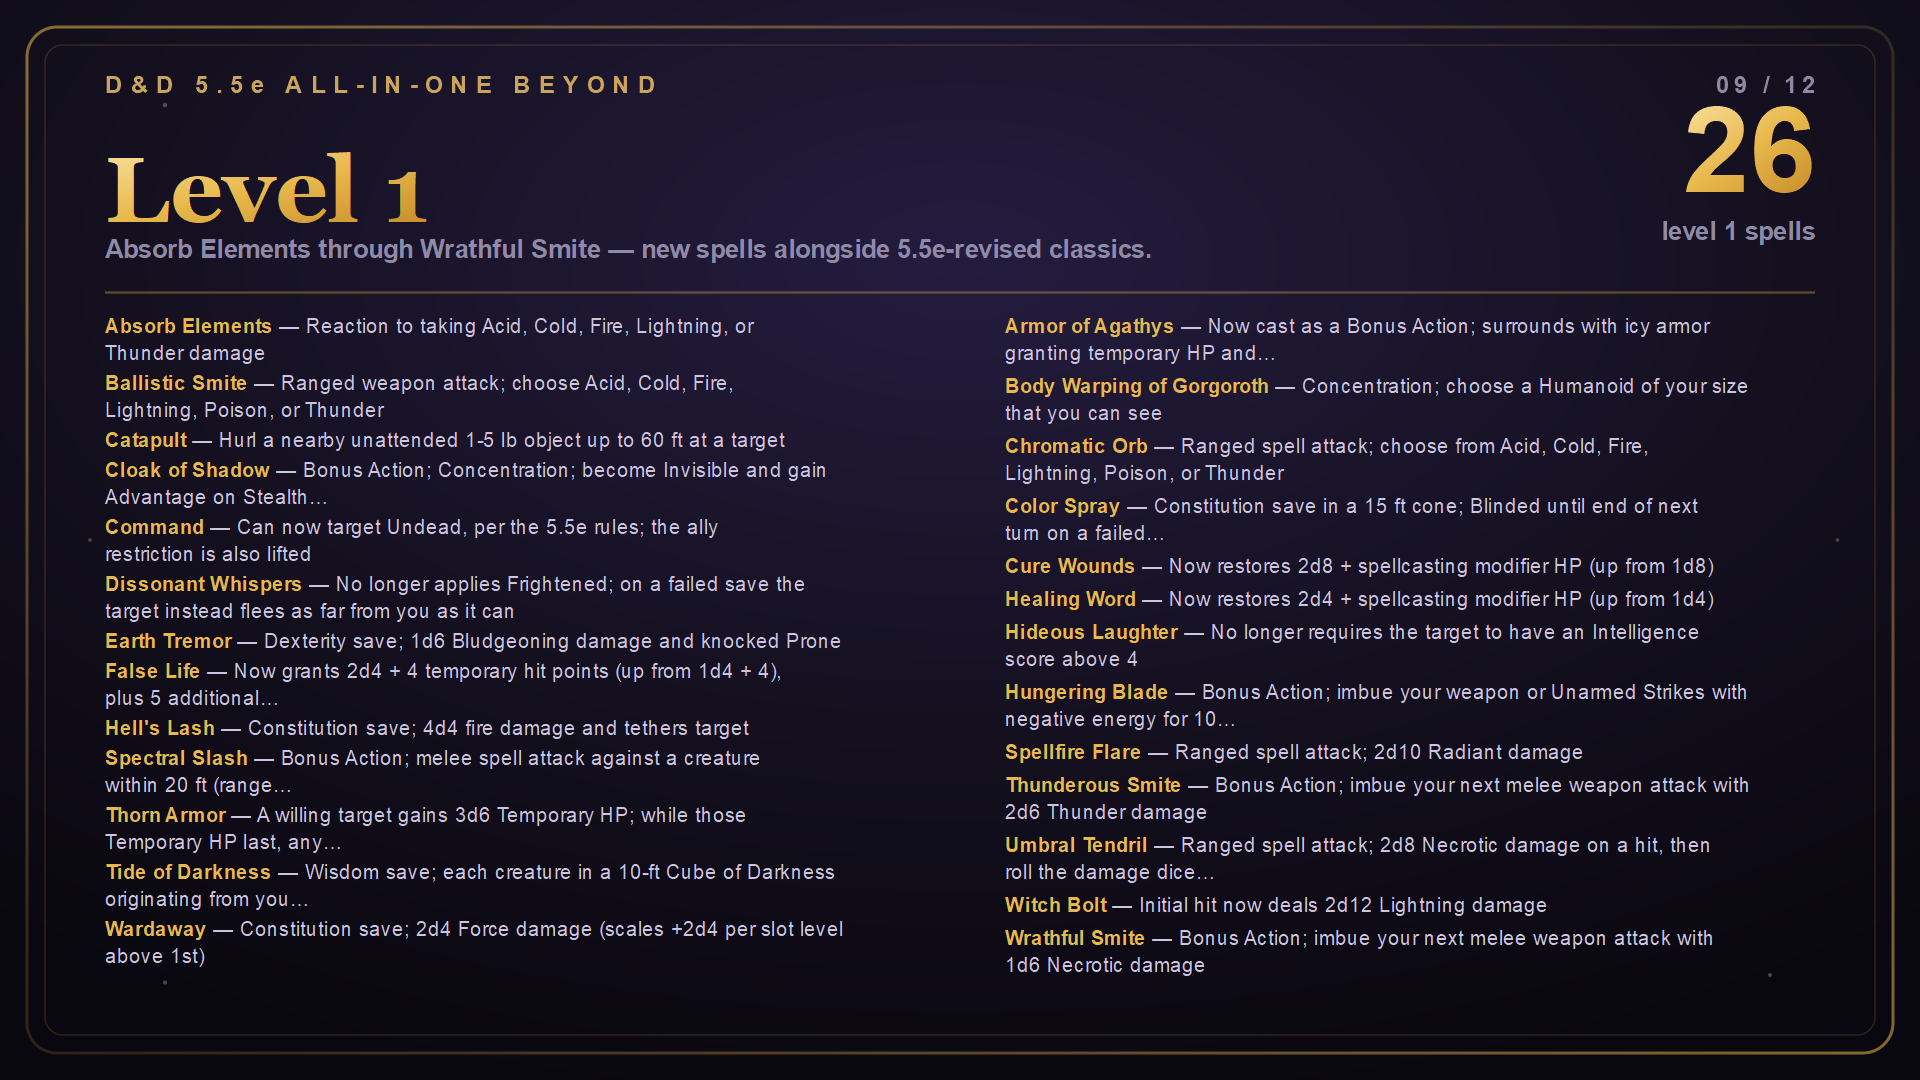
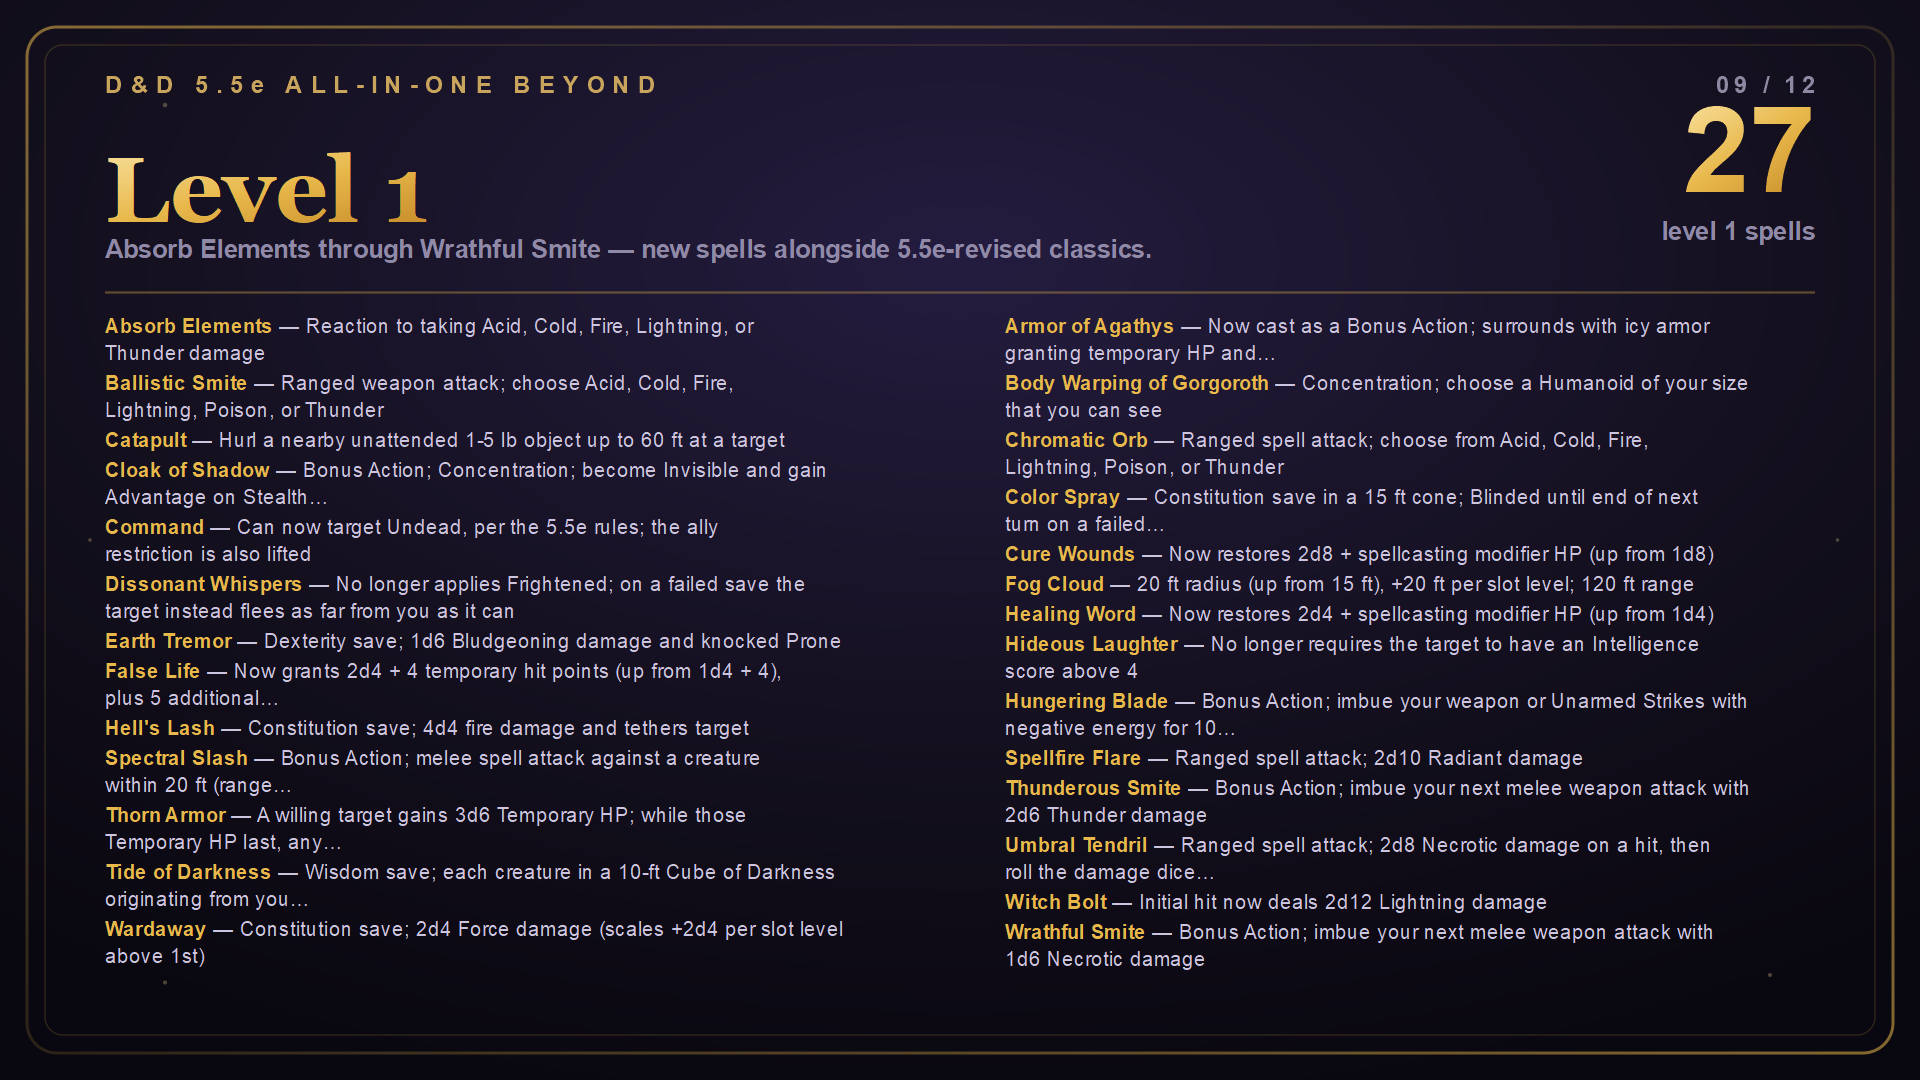
docs(spells): list Fog Cloud among the revised spells
Add Fog Cloud to the level 1 lists in the three READMEs and the right
column of the level 1 slide, tightening that column's spacing to fit, and
count 120 new and revised spells on the thumbnail.

Changed region(s): [[0.5, 0.3361, 0.9062, 0.7639], [0.5, 0.825, 0.9062, 0.9167], [0.9062, 0.0917, 0.9688, 0.1833]]

diff --git a/README_Modio.html b/README_Modio.html
@@ -89,7 +89,7 @@
 
 <h3>Leveled Spells</h3>
 <ul>
-  <li><strong>Level 1:</strong> Absorb Elements, Armor of Agathys, Ballistic Smite, Body Warping of Gorgoroth, Catapult, Chromatic Orb, Cloak of Shadow, Color Spray, Command, Cure Wounds, Dissonant Whispers, Earth Tremor, False Life, Healing Word, Hell's Lash, Hideous Laughter, Hungering Blade, Spectral Slash, Spellfire Flare, Thorn Armor, Thunderous Smite, Tide of Darkness, Umbral Tendril, Wardaway, Witch Bolt, Wrathful Smite.</li>
+  <li><strong>Level 1:</strong> Absorb Elements, Armor of Agathys, Ballistic Smite, Body Warping of Gorgoroth, Catapult, Chromatic Orb, Cloak of Shadow, Color Spray, Command, Cure Wounds, Dissonant Whispers, Earth Tremor, False Life, Fog Cloud, Healing Word, Hell's Lash, Hideous Laughter, Hungering Blade, Spectral Slash, Spellfire Flare, Thorn Armor, Thunderous Smite, Tide of Darkness, Umbral Tendril, Wardaway, Witch Bolt, Wrathful Smite.</li>
   <li><strong>Level 2:</strong> Aganazzar's Scorcher, Alter Self, Arcane Vigor, Barkskin, Darkbolt, Dazing Blast, Death Armor, Dragon's Breath, Elminster's Elusion, Find Steed, Fire Rune, Gust of Wind, Lesser Restoration, Mind Spike, Moonbeam, Prayer of Healing, Rime's Binding Ice, Searing Orb, Shadow Blade, Snilloc's Snowball Swarm, Summon Beast, Tasha's Mind Whip, Warding Bond, Web.</li>
   <li><strong>Level 3:</strong> Animate Dead, Ashardalon's Stride, Astral Flood, Aura of Vitality, Bestow Curse, Cacophonic Shield, Conjure Barrage, Counterspell, Crusader's Mantle, Elemental Exhalation, Haste, Laeral's Silver Lance, Lightning Arrow, Murmurs of Doom, Phantom Steed, Summon Fey, Summon Undead, Tidal Wave, Trollblood Infusion, Void Strike.</li>
   <li><strong>Level 4:</strong> Arcane Eye, Charm Monster, Conjure Woodland Beings, Fire Dance, Fount of Moonlight, Murder of Crows, Spellfire Storm, Summon Aberration, Summon Elemental, Vitriolic Sphere.</li>

diff --git a/README.md b/README.md
@@ -99,7 +99,7 @@ Acid Splash, Blade Ward, Blood Bolt, Booming Blade, Bursting Sinew, Finger Guns,
 
 ### Leveled Spells
 
-- Level 1: Absorb Elements, Armor of Agathys, Ballistic Smite, Body Warping of Gorgoroth, Catapult, Chromatic Orb, Cloak of Shadow, Color Spray, Command, Cure Wounds, Dissonant Whispers, Earth Tremor, False Life, Healing Word, Hell's Lash, Hideous Laughter, Hungering Blade, Spectral Slash, Spellfire Flare, Thorn Armor, Thunderous Smite, Tide of Darkness, Umbral Tendril, Wardaway, Witch Bolt, Wrathful Smite.
+- Level 1: Absorb Elements, Armor of Agathys, Ballistic Smite, Body Warping of Gorgoroth, Catapult, Chromatic Orb, Cloak of Shadow, Color Spray, Command, Cure Wounds, Dissonant Whispers, Earth Tremor, False Life, Fog Cloud, Healing Word, Hell's Lash, Hideous Laughter, Hungering Blade, Spectral Slash, Spellfire Flare, Thorn Armor, Thunderous Smite, Tide of Darkness, Umbral Tendril, Wardaway, Witch Bolt, Wrathful Smite.
 - Level 2: Aganazzar's Scorcher, Alter Self, Arcane Vigor, Barkskin, Darkbolt, Dazing Blast, Death Armor, Dragon's Breath, Elminster's Elusion, Find Steed, Fire Rune, Gust of Wind, Lesser Restoration, Mind Spike, Moonbeam, Prayer of Healing, Rime's Binding Ice, Searing Orb, Shadow Blade, Snilloc's Snowball Swarm, Summon Beast, Tasha's Mind Whip, Warding Bond, Web.
 - Level 3: Animate Dead, Ashardalon's Stride, Astral Flood, Aura of Vitality, Bestow Curse, Cacophonic Shield, Conjure Barrage, Counterspell, Crusader's Mantle, Elemental Exhalation, Haste, Laeral's Silver Lance, Lightning Arrow, Murmurs of Doom, Phantom Steed, Summon Fey, Summon Undead, Tidal Wave, Trollblood Infusion, Void Strike.
 - Level 4: Arcane Eye, Charm Monster, Conjure Woodland Beings, Fire Dance, Fount of Moonlight, Murder of Crows, Spellfire Storm, Summon Aberration, Summon Elemental, Vitriolic Sphere.
